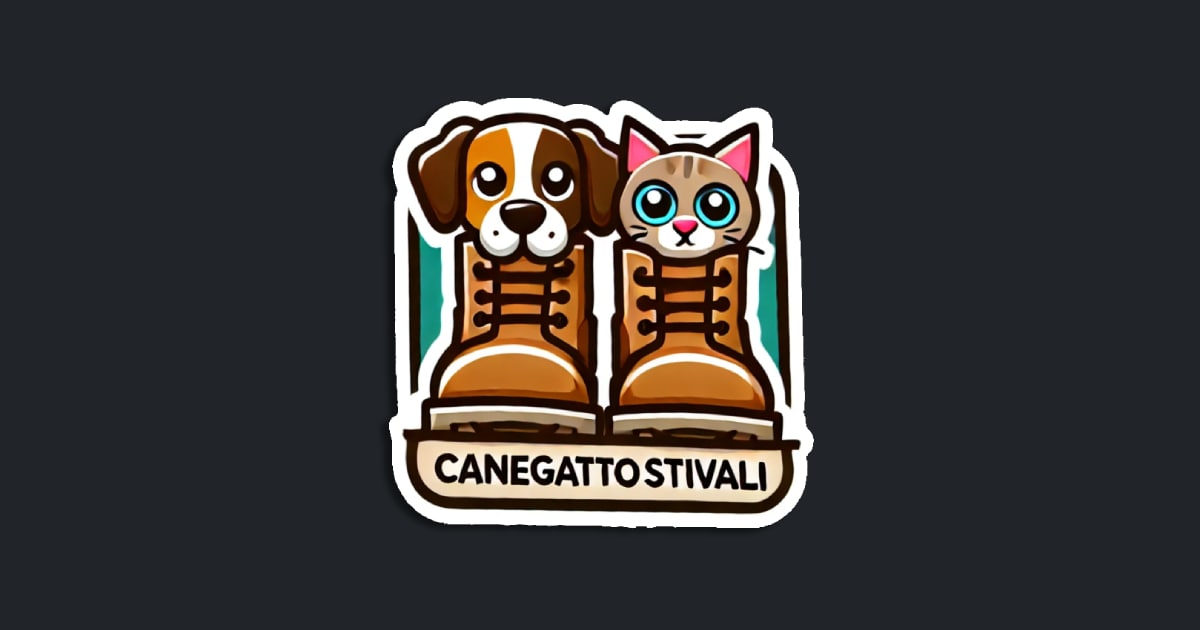
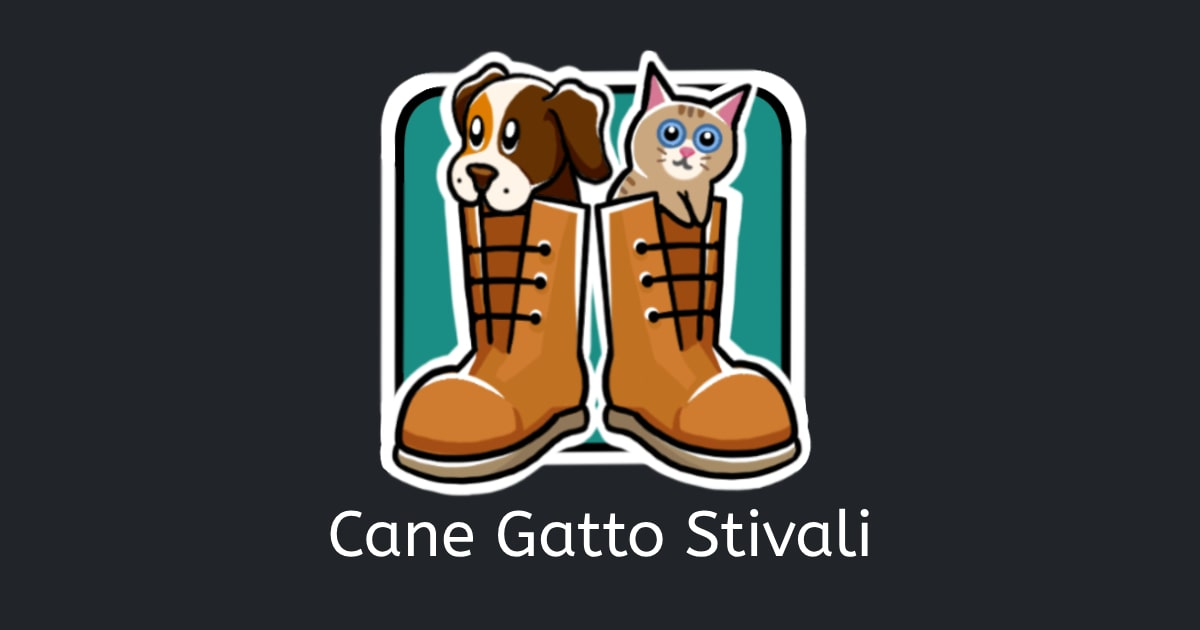
feat(HomePage): :sparkles: add victory modal and update images

Changed region(s): [[0.2775, 0.0603, 0.74, 0.9048]]

diff --git a/src/components/UI/Templates/HomePage/HomePage.tsx b/src/components/UI/Templates/HomePage/HomePage.tsx
@@ -2,11 +2,12 @@ import React, { useState, useEffect, useCallback, useRef } from "react";
 
 // Components
 import { Container, Row, Col, Button } from "react-bootstrap";
-import Confetti from "@/components/UI/Atoms/Confetti/Confetti";
 import TopSection from "@/components/UI/Molecules/TopSection/TopSection";
 import InfoSection from "@/components/UI/Molecules/InfoSection/InfoSection";
 import GetHelpSection from "@/components/UI/Molecules/GetHelpSection/GetHelpSection";
 import Keyboard from "@/components/UI/Organisms/Keyboard/Keyboard";
+import Confetti from "@/components/UI/Atoms/Confetti/Confetti";
+import EndGameModal from "@/components/UI/Organisms/EndGameModal/EndGameModal";
 
 // Utils
 import { createWordSequence } from "@/utils/game-logic";
@@ -19,11 +20,12 @@ import { WORD_LIST_LENGTH } from "@/constants/wordList";
 import { ButtonVariant } from "react-bootstrap/esm/types";
 type Message = "🤔" | "😃" | "😓" | "🥳";
 
-const wordSequence = createWordSequence();
+const initialWordSequence = createWordSequence();
 
-console.log({ wordSequence });
+console.log({ initialWordSequence });
 
 const HomePage: React.FC = () => {
+  const [wordSequence, setWordSequence] = useState(initialWordSequence);
   const [currentWordIndex, setCurrentWordIndex] = useState<number>(1);
   const [guessedWord, setGuessedWord] = useState<string>(wordSequence[1][0]);
   const [buttonVariants, setButtonVariants] = useState<ButtonVariant[]>([]);
@@ -38,6 +40,7 @@ const HomePage: React.FC = () => {
   const [time, setTime] = useState<number>(0);
   const [showExtraTimeTooltip, setShowExtraTimeTooltip] =
     useState<boolean>(false);
+  const [showEndGameModal, setShowEndGameModal] = useState<boolean>(false);
 
   const isKeyPressEnabled = useRef<boolean>(true);
 
@@ -83,6 +86,9 @@ const HomePage: React.FC = () => {
         if (guessedWord === currentWord) {
           if (isLastWord) {
             setIsGameEnded(true);
+            setTimeout(() => {
+              setShowEndGameModal(true);
+            }, 2000);
             setIsGameRunning(false);
           }
           isKeyPressEnabled.current = false;
@@ -227,6 +233,20 @@ const HomePage: React.FC = () => {
     }, 1500);
   };
 
+  const startGame = () => {
+    const newWordSequence = createWordSequence();
+    console.log({ newWordSequence });
+    setWordSequence(newWordSequence);
+    setCurrentWordIndex(1);
+    setGuessedWord(newWordSequence[1][0]);
+    setMessage("🤔");
+    setIsGameRunning(false);
+    setIsGameEnded(false);
+    setTime(0);
+    setShowConfetti(false);
+    isKeyPressEnabled.current = true;
+  };
+
   return (
     <Container className="mt-3 mt-md-5">
       <TopSection />
@@ -309,6 +329,16 @@ const HomePage: React.FC = () => {
       </Row>
 
       {showConfetti && <Confetti />}
+
+      {showEndGameModal && (
+        <EndGameModal
+          show={showEndGameModal}
+          time={time}
+          wordSequence={wordSequence}
+          setShow={setShowEndGameModal}
+          startGame={startGame}
+        />
+      )}
 
       <GetHelpSection getHelp={getHelp} />
 

diff --git a/src/components/UI/Organisms/EndGameModal/EndGameModal.tsx b/src/components/UI/Organisms/EndGameModal/EndGameModal.tsx
@@ -1,0 +1,62 @@
+import React, { Dispatch, SetStateAction } from "react";
+
+// Components
+import { Button, Modal } from "react-bootstrap";
+
+// Utils
+import { formatTime } from "@/utils/time";
+
+interface IOptionsModal {
+  show: boolean;
+  time: number;
+  wordSequence: string[];
+  setShow: Dispatch<SetStateAction<boolean>>;
+  startGame: () => void;
+}
+
+const EndGameModal: React.FC<IOptionsModal> = ({
+  show,
+  time,
+  wordSequence,
+  setShow,
+  startGame,
+}) => {
+  const handleClose = () => setShow(false);
+  const handlePlayAgain = () => {
+    startGame();
+    handleClose();
+  };
+
+  return (
+    <>
+      <Modal
+        show={show}
+        onHide={handleClose}
+        backdrop="static"
+        keyboard={false}
+      >
+        <Modal.Header>
+          <Modal.Title>Hai vinto! 🥳</Modal.Title>
+        </Modal.Header>
+        <Modal.Body>
+          <p className="fw-light">
+            Tempo impiegato: <span className="fw-bold">{formatTime(time)}</span>
+          </p>
+          <p className="fw-light mb-1">Catena di parole:</p>
+          <ul className="fw-bold list-unstyled">
+            {wordSequence.map((word) => (
+              <li key={word}>{word}</li>
+            ))}
+          </ul>
+        </Modal.Body>
+        <Modal.Footer className="justify-content-center">
+          <Button variant="primary" onClick={handlePlayAgain}>
+            Gioca ancora
+          </Button>
+        </Modal.Footer>
+      </Modal>
+    </>
+  );
+};
+
+export default EndGameModal;

diff --git a/src/components/UI/Organisms/Navbar/Navbar.tsx b/src/components/UI/Organisms/Navbar/Navbar.tsx
@@ -1,6 +1,7 @@
 import React /* useState, useEffect, useRef */ from "react";
 
 // Components
+import { Image } from "react-bootstrap";
 import { Container, Navbar } from "react-bootstrap";
 // import { LinkContainer } from "react-router-bootstrap";
 
@@ -70,19 +71,23 @@ const NavbarComponent: React.FC = () => {
       <Navbar
         expand="lg"
         fixed="top"
-        className="navbar navbar-dark bg-dark border-bottom"
+        className="navbar navbar-dark bg-dark border-bottom py-1"
         // expanded={expanded}
         // ref={navbarRef as React.RefObject<HTMLDivElement>}
       >
         <Container>
           <Navbar.Brand
             onClick={handleLogoClick}
-            className="logo__container position-relative py-0 user-select-none cursor-pointer"
+            className="cursor-pointer p-0"
             title="Cane Gatto Stivali"
           >
-            <span className="cane">🐶</span>
-            <span className="gatto">🐱</span>
-            <span className="stivali">👢</span>
+            <Image
+              src="/assets/img/logo.png"
+              height={56}
+              width={56}
+              alt="Cane Gatto Stivali"
+              draggable={false}
+            />
           </Navbar.Brand>
 
           <span

diff --git a/src/components/UI/Organisms/Footer/Footer.tsx b/src/components/UI/Organisms/Footer/Footer.tsx
@@ -1,7 +1,7 @@
 import React from "react";
 
 // Components
-import { Container, Row, Col } from "react-bootstrap";
+import { Container, Row, Col, Image } from "react-bootstrap";
 // import IconTwitter from "@/components/UI/Atoms/IconTwitter/IconTwitter";
 
 // Constants
@@ -43,7 +43,7 @@ const Footer: React.FC = () => {
                 rel="noopener noreferrer nofollow"
                 className="d-contents text-white"
               >
-                <img
+                <Image
                   src="/assets/img/pimp-my-jpg.png"
                   height="50"
                   width="100"
@@ -83,7 +83,7 @@ const Footer: React.FC = () => {
                 rel="noopener noreferrer nofollow"
                 className="d-contents"
               >
-                <img
+                <Image
                   src="/assets/img/buy-me-a-coffee.png"
                   height={56}
                   width={200}

diff --git a/src/components/UI/_styles.scss b/src/components/UI/_styles.scss
@@ -10,6 +10,7 @@
 @import "./Molecules/TopSection/styles";
 
 // Organisms
+@import "./Organisms/EndGameModal/styles";
 @import "./Organisms/Footer/styles";
 @import "./Organisms/Keyboard/styles";
 @import "./Organisms/Navbar/styles";
